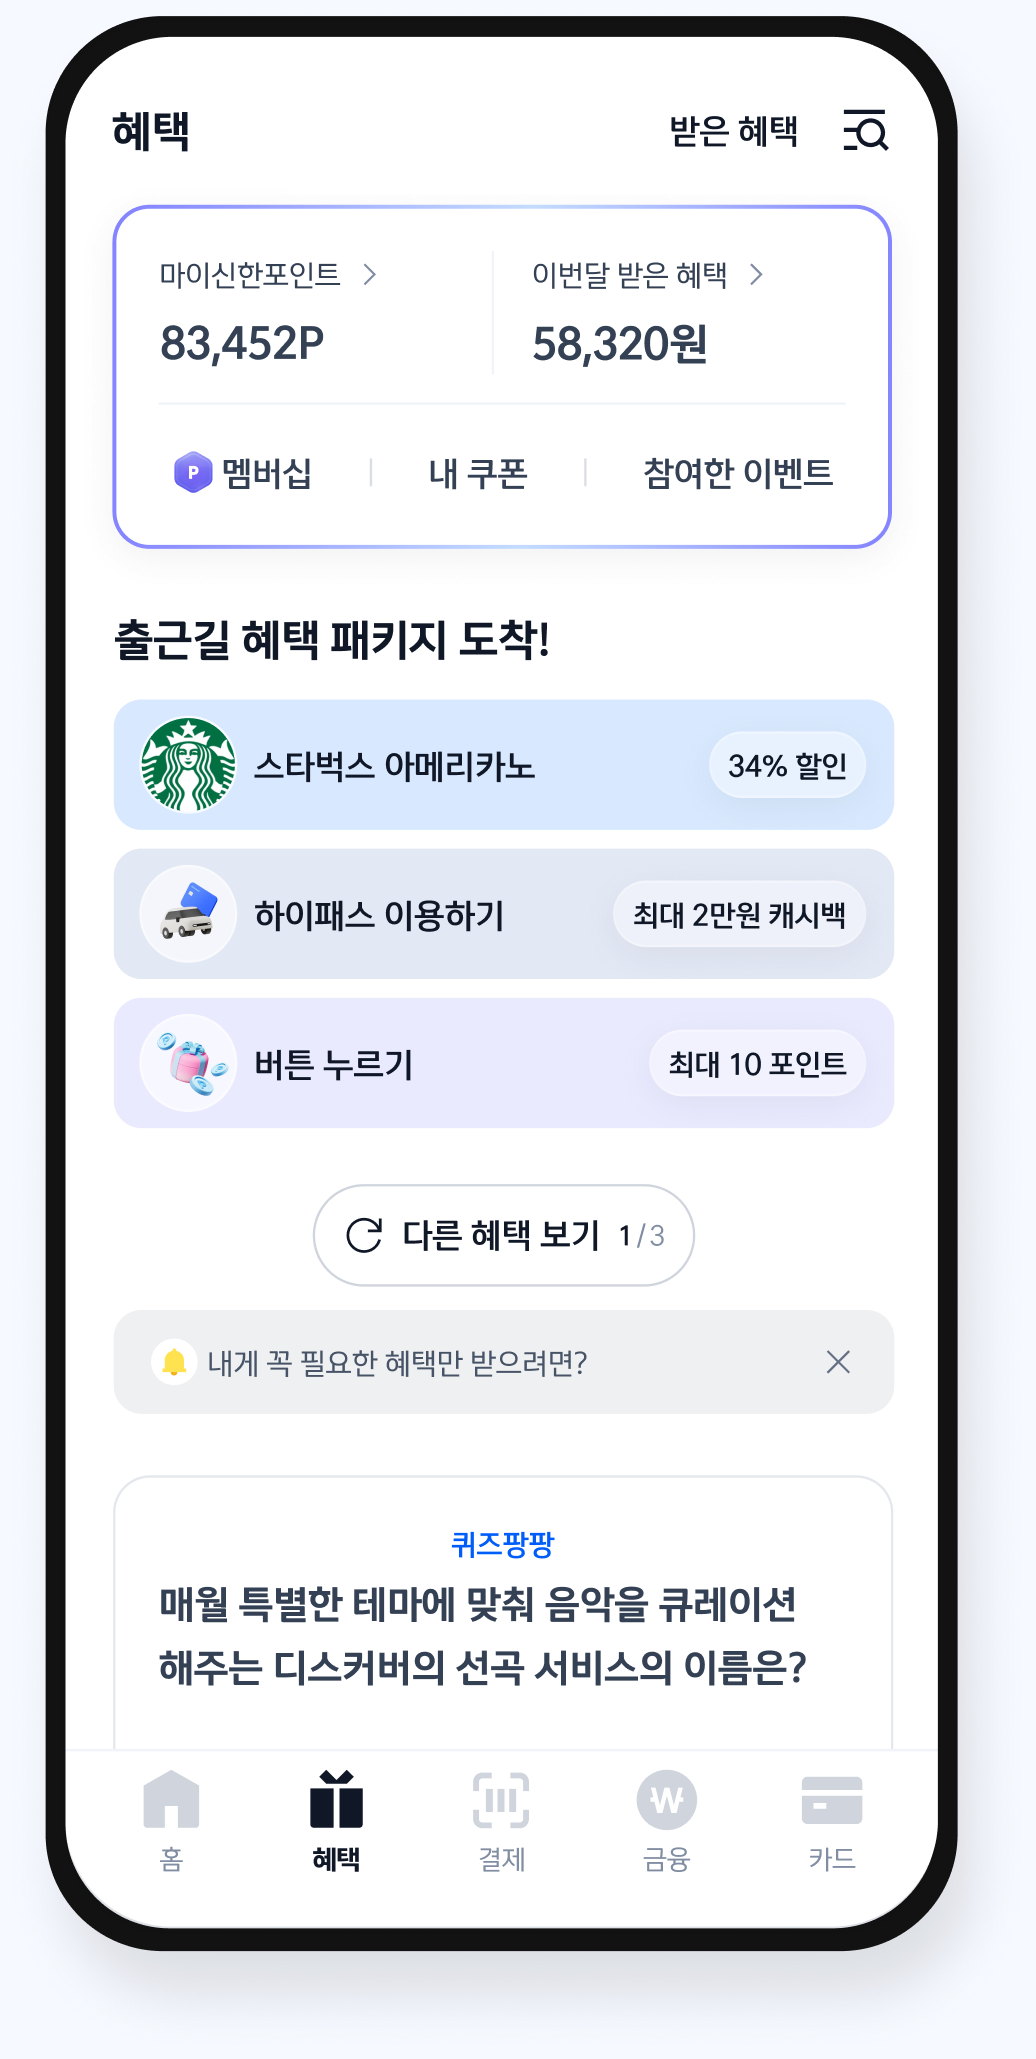
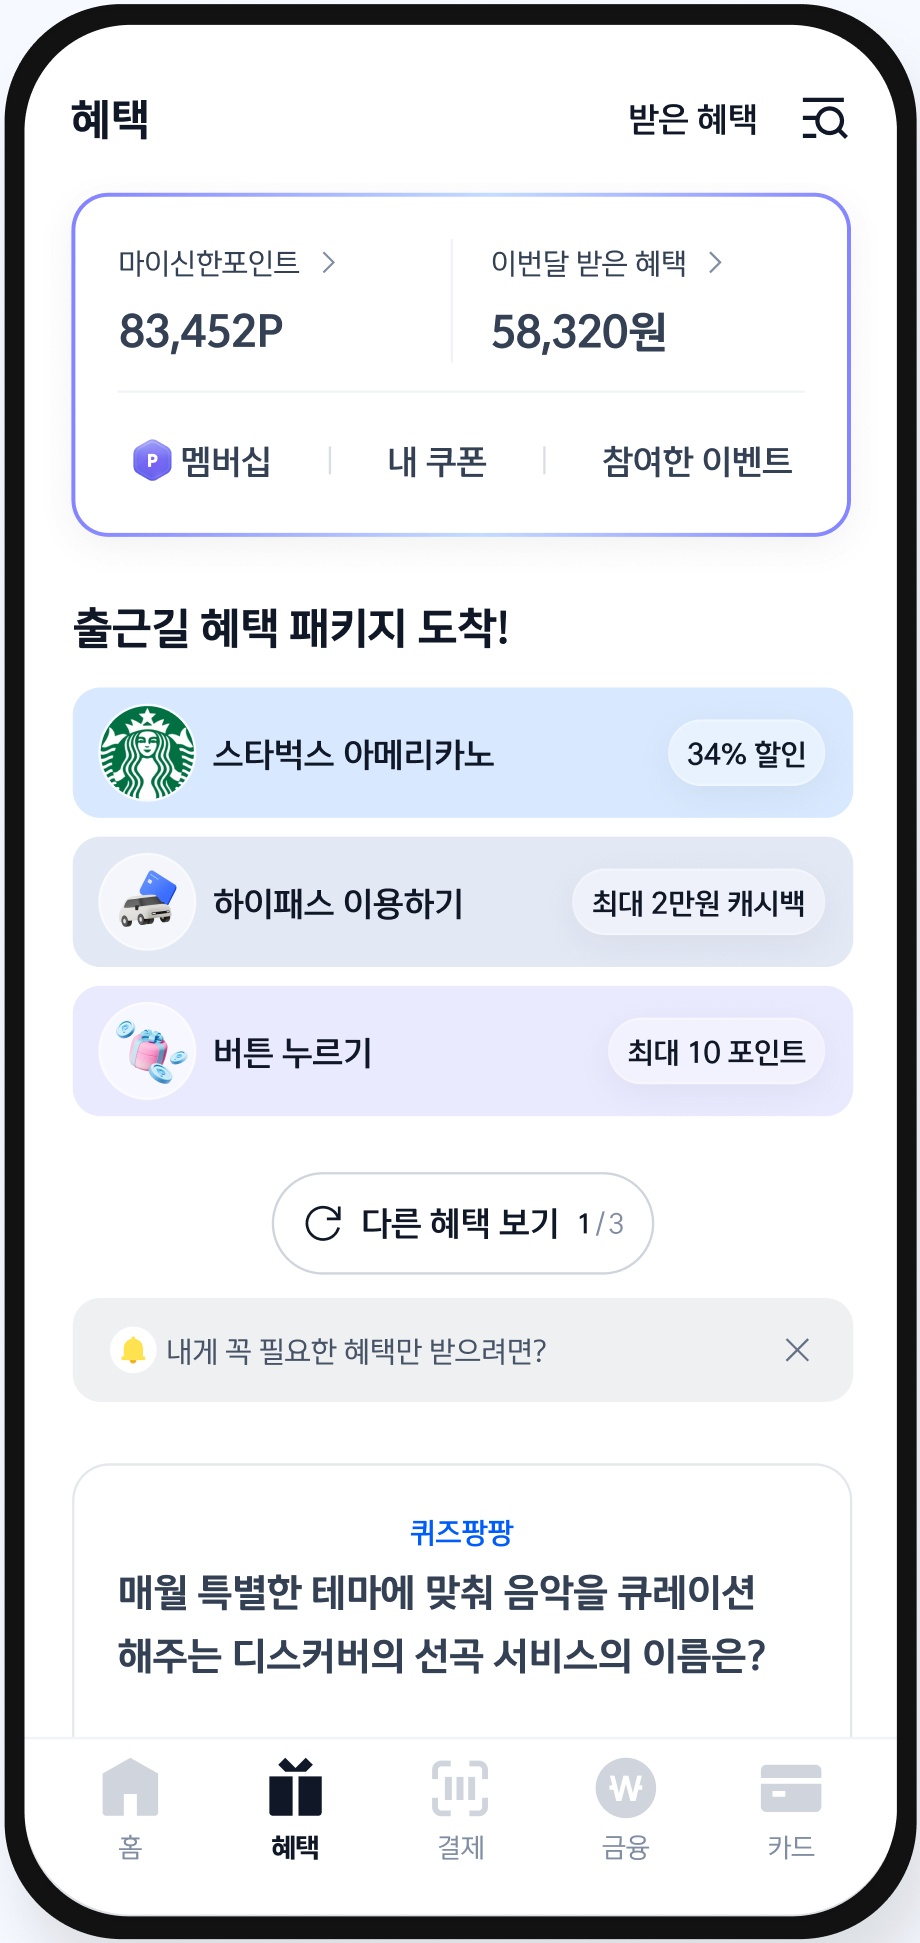
Fix AS-IS/TO-BE phone image fill and arrow button style
Re-crop the TO-BE/NEW phone exports to their tight bezel bounding box
(the raw Figma export included a wide soft-shadow margin that AS-IS
didn't have) so every screen fills its frame edge-to-edge like AS-IS
does, instead of floating with visible white space around it. Also
remove the leftover placeholder drop-shadow from the left/right arrow
buttons so they match Figma's flat #ecf0f9 circle exactly.

Claude-Session: https://claude.ai/code/session_01SkvPkKxccrs1SvLgt8zXyT

diff --git a/src/pages/solpay/AsIsToBeSection.module.css b/src/pages/solpay/AsIsToBeSection.module.css
@@ -248,8 +248,6 @@
 
   background: #ecf0f9;
 
-  box-shadow: 0 0.417vw 1.25vw rgba(0, 0, 0, 0.1);
-
   cursor: pointer;
 }
 
